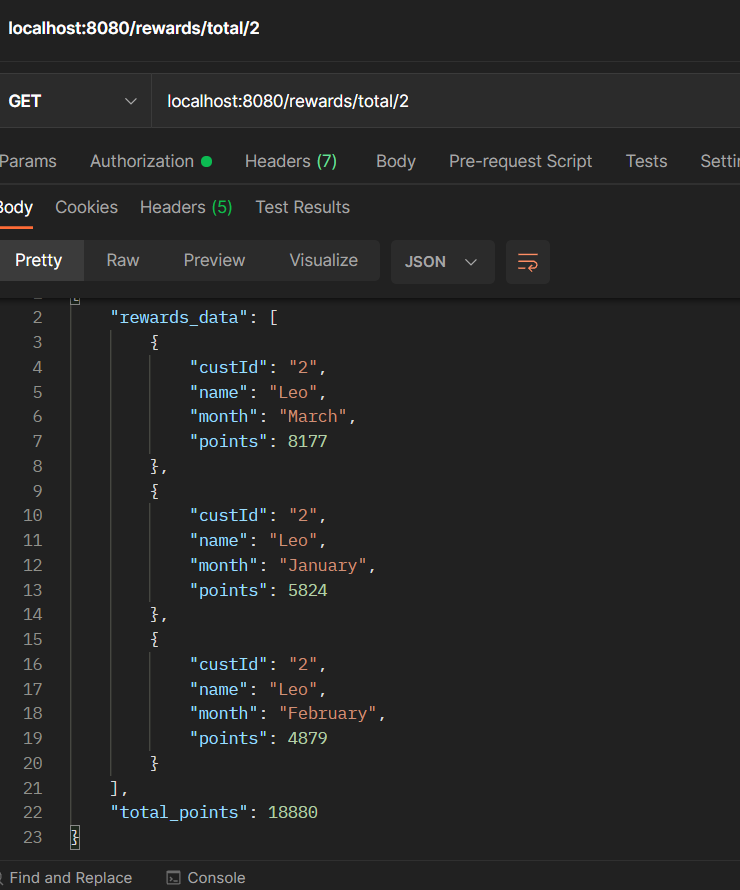
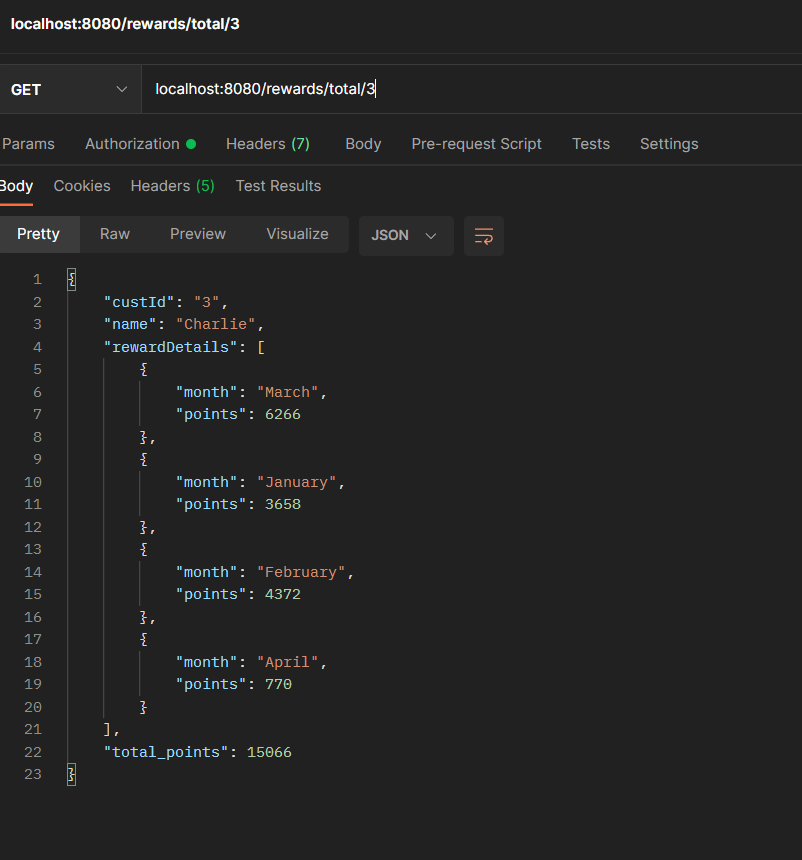
Restructured Json for better readability

diff --git a/src/main/java/CustomerRewardsApp/customerRewardsService/RewardsServiceImpl.java b/src/main/java/CustomerRewardsApp/customerRewardsService/RewardsServiceImpl.java
@@ -4,9 +4,12 @@ import CustomerRewardsApp.customerRewardsException.CustomerIdNotFoundException;
 import CustomerRewardsApp.customerRewardsRepository.RewardsRepository;
 import CustomerRewardsApp.customerRewardsRepository.TransactionRepository;
 import CustomerRewardsApp.models.Reward;
-import CustomerRewardsApp.models.RewardDTO;
+import CustomerRewardsApp.models.RewardDetail;
+import CustomerRewardsApp.models.RewardResponse;
 import CustomerRewardsApp.models.Transaction;
 import org.springframework.beans.factory.annotation.Autowired;
+import org.springframework.http.HttpStatus;
+import org.springframework.http.ResponseEntity;
 import org.springframework.stereotype.Service;
 
 import java.time.LocalDate;
@@ -19,15 +22,16 @@ public class RewardsServiceImpl implements RewardsService {
     RewardsRepository rewardsRepository;
     @Autowired
     TransactionRepository transactionRepository;
-
-    @Override
-    public List<RewardDTO> calculateRewardPoints() {
+    public void setRewardPoints() {
         List<Transaction> transactions = transactionRepository.findAll();
         Map<String, HashMap<String, Reward>> rewardMap = new HashMap<>();
         //Mapping and Grouping Rewards by CustId and month of transaction
         for (Transaction t : transactions) {
             HashMap<String, Reward> monthlyMap;
-            String month = LocalDate.parse(t.getTranDate(), DateTimeFormatter.ofPattern("MM/dd/yyyy")).format(DateTimeFormatter.ofPattern("MMMM", Locale.ENGLISH));
+            String month = LocalDate.parse(t.getTranDate(), DateTimeFormatter.
+                    ofPattern("MM/dd/yyyy")).
+                    format(DateTimeFormatter.
+                            ofPattern("MMMM", Locale.ENGLISH));
             Reward r;
             if (!rewardMap.containsKey(t.getCustId())) {
                 monthlyMap = new HashMap<>();
@@ -52,22 +56,51 @@ public class RewardsServiceImpl implements RewardsService {
         }
         //save the data
         rewardsRepository.saveAll(rewardList);
-        //Calculate total for all rewards
-        List<RewardDTO> customerTotalReward = new ArrayList<>();
-        for (String custId : rewardMap.keySet()) {
-            rewardList = rewardsRepository.findByCustId(custId);
-            int totalReward = rewardList.stream().mapToInt(Reward::getPoints).sum();
-            customerTotalReward.add(new RewardDTO(rewardList, totalReward));
-        }
-        return customerTotalReward;
     }
-
     @Override
-    public RewardDTO calculateRewardPoints(String custId) {
-        List<Reward> rewardList = rewardsRepository.findByCustId(custId);
-        if(rewardList.isEmpty()) throw new CustomerIdNotFoundException("CustId not present", "CustId "+custId+" not present in DB");
-        int totalReward = rewardList.stream().mapToInt(Reward::getPoints).sum();
-        return new RewardDTO(rewardList, totalReward);
+    public ResponseEntity<List<RewardResponse>> createRewardResponse()
+    {
+        RewardResponse rewardResponse=new RewardResponse();
+        List<RewardResponse> rewardResponseList= new ArrayList<>();
+        List<Reward> rewardList = new ArrayList<>();
+        List<String> custIdList =new ArrayList<>();
+        custIdList= rewardsRepository.findCustId();
+        int totalRewards=0;
+        for(String id:custIdList){
+            rewardList=rewardsRepository.findByCustId(id);
+            rewardResponse.setName(rewardList.get(0).getName());
+            rewardResponse.setCustId(id);
+            List<RewardDetail> rewardDetails= new ArrayList<>();
+            for(Reward reward:rewardList){
+                rewardDetails.add(new RewardDetail(reward.getMonth(),reward.getPoints()));
+                totalRewards+=reward.getPoints();
+            }
+            rewardResponse.setTotal_points(totalRewards);
+            rewardResponse.setRewardDetails(rewardDetails);
+            rewardResponseList.add(rewardResponse);
+            //rewardDetails=new ArrayList<>();
+            totalRewards=0;
+            rewardResponse= new RewardResponse();
+        }
+        return new ResponseEntity<>(rewardResponseList,HttpStatus.OK);
+    }
+    @Override
+    public ResponseEntity<RewardResponse> createRewardResponse(String custId)
+    {
+        List<Reward> rewards = rewardsRepository.findByCustId(custId);
+        if(rewards.size()==0) throw new CustomerIdNotFoundException("Customer Id "+custId+" not present in DB","Id does not exist");
+        RewardResponse rewardResponse = new RewardResponse();
+        rewardResponse.setCustId(custId);
+        rewardResponse.setName(rewards.get(0).getName());
+        List<RewardDetail> rewardDetails = new ArrayList<>();
+        int totalPoints = 0;
+        for (Reward r : rewards) {
+            rewardDetails.add(new RewardDetail(r.getMonth(), r.getPoints()));
+            totalPoints += r.getPoints();
+        }
+        rewardResponse.setRewardDetails(rewardDetails);
+        rewardResponse.setTotal_points(totalPoints);
+        return new ResponseEntity<>(rewardResponse, HttpStatus.OK);
     }
 
     public int computeRewardPoint(int amount) {
@@ -75,4 +108,5 @@ public class RewardsServiceImpl implements RewardsService {
         else if (amount <= 100) return (amount - 50);
         else return 2 * (amount - 100) + 50;
     }
+
 }

diff --git a/src/main/java/CustomerRewardsApp/customerRewardsController/RewardsController.java b/src/main/java/CustomerRewardsApp/customerRewardsController/RewardsController.java
@@ -2,7 +2,7 @@ package CustomerRewardsApp.customerRewardsController;
 
 import CustomerRewardsApp.customerRewardsService.RewardsServiceImpl;
 import CustomerRewardsApp.models.Reward;
-import CustomerRewardsApp.models.RewardDTO;
+import CustomerRewardsApp.models.RewardResponse;
 import CustomerRewardsApp.models.Transaction;
 import org.springframework.beans.factory.annotation.Autowired;
 import org.springframework.http.ResponseEntity;
@@ -17,13 +17,13 @@ public class RewardsController {
     RewardsServiceImpl rewardsService;
 
     @GetMapping("/total")
-    public List<RewardDTO> getTotal()
+    public ResponseEntity<List<RewardResponse>> getTotal()
     {
-        return rewardsService.calculateRewardPoints();
+        return rewardsService.createRewardResponse();
     }
     @GetMapping("/total/{customerId}")
-    public ResponseEntity<RewardDTO> getTotalByCustId(@PathVariable("customerId") String custId)
+    public ResponseEntity<RewardResponse> getTotalByCustId(@PathVariable("customerId") String custId)
     {
-        return ResponseEntity.ok(rewardsService.calculateRewardPoints(custId));
+        return rewardsService.createRewardResponse(custId);
     }
 }

diff --git a/src/main/java/CustomerRewardsApp/models/RewardResponse.java b/src/main/java/CustomerRewardsApp/models/RewardResponse.java
@@ -1,0 +1,45 @@
+package CustomerRewardsApp.models;
+
+import java.util.ArrayList;
+import java.util.List;
+
+public class RewardResponse {
+
+    private String custId;
+    private  String name;
+    private List<RewardDetail> rewardDetails;
+    private int total_points;
+
+    public String getCustId() {
+        return custId;
+    }
+
+    public void setCustId(String custId) {
+        this.custId = custId;
+    }
+
+    public String getName() {
+        return name;
+    }
+
+    public void setName(String name) {
+        this.name = name;
+    }
+
+    public List<RewardDetail> getRewardDetails() {
+        return rewardDetails;
+    }
+
+    public void setRewardDetails(List<RewardDetail> rewardDetails) {
+        this.rewardDetails = rewardDetails;
+    }
+
+    public int getTotal_points() {
+        return total_points;
+    }
+
+    public void setTotal_points(int total_points) {
+        this.total_points = total_points;
+    }
+
+}

diff --git a/src/main/java/CustomerRewardsApp/CustomerRewardsSystemApplication.java b/src/main/java/CustomerRewardsApp/CustomerRewardsSystemApplication.java
@@ -1,11 +1,23 @@
 package CustomerRewardsApp;
 
+import CustomerRewardsApp.customerRewardsService.RewardsService;
+import CustomerRewardsApp.customerRewardsService.RewardsServiceImpl;
+import org.springframework.beans.factory.annotation.Autowired;
+import org.springframework.boot.CommandLineRunner;
 import org.springframework.boot.SpringApplication;
 import org.springframework.boot.autoconfigure.SpringBootApplication;
 
 @SpringBootApplication
-public class CustomerRewardsSystemApplication {
+public class CustomerRewardsSystemApplication implements CommandLineRunner {
+
+    @Autowired
+    RewardsServiceImpl rewardsService;
     public static void main(String[] args) {
         SpringApplication.run(CustomerRewardsSystemApplication.class);
+    }
+
+    @Override
+    public void run(String... args) throws Exception {
+        rewardsService.setRewardPoints();
     }
 }

diff --git a/src/main/java/CustomerRewardsApp/customerRewardsService/RewardsService.java b/src/main/java/CustomerRewardsApp/customerRewardsService/RewardsService.java
@@ -1,12 +1,13 @@
 package CustomerRewardsApp.customerRewardsService;
 
 import CustomerRewardsApp.models.Reward;
-import CustomerRewardsApp.models.RewardDTO;
+import CustomerRewardsApp.models.RewardResponse;
 import CustomerRewardsApp.models.Transaction;
+import org.springframework.http.ResponseEntity;
 
 import java.util.List;
 
 public interface RewardsService {
-    List<RewardDTO> calculateRewardPoints();
-    RewardDTO calculateRewardPoints(String custId);
+    ResponseEntity<List<RewardResponse>> createRewardResponse();
+    ResponseEntity<RewardResponse> createRewardResponse(String custId);
 }

diff --git a/src/main/java/CustomerRewardsApp/customerRewardsRepository/RewardsRepository.java b/src/main/java/CustomerRewardsApp/customerRewardsRepository/RewardsRepository.java
@@ -12,4 +12,7 @@ import java.util.List;
 @Repository
 public interface RewardsRepository extends JpaRepository<Reward, String> {
     List<Reward> findByCustId(String custId);
+    @Query(value = "select distinct cust_id from REWARDPOINTS order by cust_id asc", nativeQuery = true)
+    List<String> findCustId();
+    List<Reward> findAllByOrderByCustIdAsc();
 }
